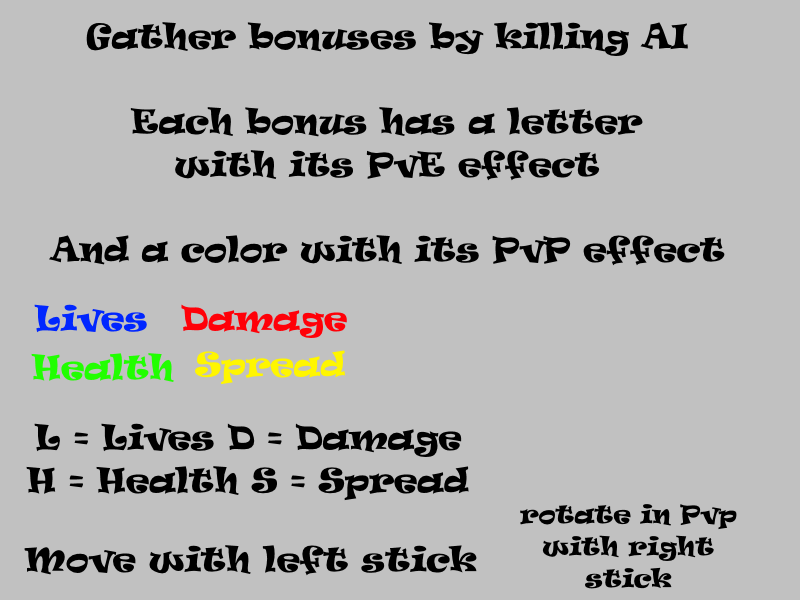
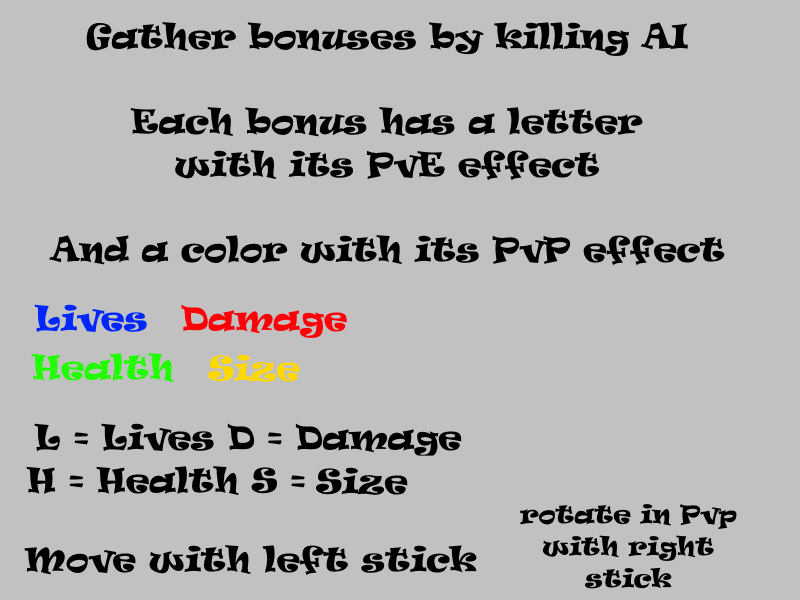
Not even sure what some of these changes were, but I'm pretty sure they were all for the greater good :D

Changed region(s): [[0.2188, 0.57, 0.4375, 0.66], [0.375, 0.78, 0.5938, 0.84]]

diff --git a/RacetoRGS/Assets/Scripts/Drop.cs b/RacetoRGS/Assets/Scripts/Drop.cs
@@ -28,43 +28,44 @@ public class Drop : MonoBehaviour {
 		}
 		if (player1.renderer.bounds.Intersects(renderer.bounds))
 		{
-			if (type == 1) player1.GetComponent<Movement>().damage += .2f;
-			if (type == 2) player1.GetComponent<Movement>().shipHealth += 25;
-			if (type == 3) player1.GetComponent<Movement>().lives += 1;
-			if (type == 4) player1.GetComponent<Movement>().spread += 1;
-			if (type == 5) player1.GetComponent<Movement>().damage += .2f;
-			if (type == 6) player1.GetComponent<Movement>().shipHealth += 25;
-			if (type == 7) player1.GetComponent<Movement>().lives += 1;
-			if (type == 8) player1.GetComponent<Movement>().spread += 1;
-			if (type == 9) player1.GetComponent<Movement>().damage += .2f;
-			if (type == 10) player1.GetComponent<Movement>().shipHealth += 25;
-			if (type == 11) player1.GetComponent<Movement>().lives += 1;
-			if (type == 12) player1.GetComponent<Movement>().spread += 1;
-			if (type == 13) player1.GetComponent<Movement>().damage += .2f;
-			if (type == 14) player1.GetComponent<Movement>().shipHealth += 25;
-			if (type == 15) player1.GetComponent<Movement>().lives += 1;
-			if (type == 16) player1.GetComponent<Movement>().spread += 1;
+			Debug.Log (type);
+			if (type == 0) player1.GetComponent<Movement>().damage += .2f;
+			if (type == 1) player1.GetComponent<Movement>().shipHealth += 25;
+			if (type == 2) player1.GetComponent<Movement>().lives += 1;
+			if (type == 3) player1.GetComponent<Movement>().spread += 1;
+			if (type == 4) player1.GetComponent<Movement>().damage += .2f;
+			if (type == 5) player1.GetComponent<Movement>().shipHealth += 25;
+			if (type == 6) player1.GetComponent<Movement>().lives += 1;
+			if (type == 7) player1.GetComponent<Movement>().spread += 1;
+			if (type == 8) player1.GetComponent<Movement>().damage += .2f;
+			if (type == 9) player1.GetComponent<Movement>().shipHealth += 25;
+			if (type == 10) player1.GetComponent<Movement>().lives += 1;
+			if (type == 11) player1.GetComponent<Movement>().spread += 1;
+			if (type == 12) player1.GetComponent<Movement>().damage += .2f;
+			if (type == 13) player1.GetComponent<Movement>().shipHealth += 25;
+			if (type == 14) player1.GetComponent<Movement>().lives += 1;
+			if (type == 15) player1.GetComponent<Movement>().spread += 1;
 			infinite.GetComponent<Data>().player1Stats.Add (type);
 			Destroy (gameObject);
 		}
 		if (player2.renderer.bounds.Intersects(renderer.bounds))
 		{
-			if (type == 1) player2.GetComponent<Movement>().damage += .2f;
-			if (type == 2) player2.GetComponent<Movement>().shipHealth += 25;
-			if (type == 3) player2.GetComponent<Movement>().lives += 1;
-			if (type == 4) player2.GetComponent<Movement>().spread += 1;
-			if (type == 5) player2.GetComponent<Movement>().damage += .2f;
-			if (type == 6) player2.GetComponent<Movement>().shipHealth += 25;
-			if (type == 7) player2.GetComponent<Movement>().lives += 1;
-			if (type == 8) player2.GetComponent<Movement>().spread += 1;
-			if (type == 9) player2.GetComponent<Movement>().damage += .2f;
-			if (type == 10) player2.GetComponent<Movement>().shipHealth += 25;
-			if (type == 11) player2.GetComponent<Movement>().lives += 1;
-			if (type == 12) player2.GetComponent<Movement>().spread += 1;
-			if (type == 13) player2.GetComponent<Movement>().damage += .2f;
-			if (type == 14) player2.GetComponent<Movement>().shipHealth += 25;
-			if (type == 15) player2.GetComponent<Movement>().lives += 1;
-			if (type == 16) player2.GetComponent<Movement>().spread += 1;
+			if (type == 0) player2.GetComponent<Movement>().damage += .2f;
+			if (type == 1) player2.GetComponent<Movement>().shipHealth += 25;
+			if (type == 2) player2.GetComponent<Movement>().lives += 1;
+			if (type == 3) player2.GetComponent<Movement>().spread += 1;
+			if (type == 4) player2.GetComponent<Movement>().damage += .2f;
+			if (type == 5) player2.GetComponent<Movement>().shipHealth += 25;
+			if (type == 6) player2.GetComponent<Movement>().lives += 1;
+			if (type == 7) player2.GetComponent<Movement>().spread += 1;
+			if (type == 8) player2.GetComponent<Movement>().damage += .2f;
+			if (type == 9) player2.GetComponent<Movement>().shipHealth += 25;
+			if (type == 10) player2.GetComponent<Movement>().lives += 1;
+			if (type == 11) player2.GetComponent<Movement>().spread += 1;
+			if (type == 12) player2.GetComponent<Movement>().damage += .2f;
+			if (type == 13) player2.GetComponent<Movement>().shipHealth += 25;
+			if (type == 14) player2.GetComponent<Movement>().lives += 1;
+			if (type == 15) player2.GetComponent<Movement>().spread += 1;
 			infinite.GetComponent<Data>().player2Stats.Add (type);
 			Destroy (gameObject);
 		}

diff --git a/RacetoRGS/Assets/Scripts/Movement.cs b/RacetoRGS/Assets/Scripts/Movement.cs
@@ -89,16 +89,17 @@ public class Movement : MonoBehaviour {
 		{
 			//Player1 movement
 			if (Input.GetAxis("Vertical1") > 0 && transform.position.y < top.transform.position.y) transform.Translate(Vector3.up*Time.deltaTime*speed);
-			if (Input.GetAxis ("Horizontal1") < 0 && transform.position.x > left.transform.position.x) transform.Translate(Vector3.left*Time.deltaTime*speed);
+			if ((Input.GetAxis ("Horizontal1") < 0 || Input.GetKey(KeyCode.A)) && transform.position.x > left.transform.position.x) transform.Translate(Vector3.left*Time.deltaTime*speed);
 			if (Input.GetAxis ("Vertical1") < 0 && transform.position.y > down.transform.position.y) transform.Translate(Vector3.down*Time.deltaTime*speed);
-			if (Input.GetAxis ("Horizontal1") > 0 && transform.position.x < right.transform.position.x) transform.Translate(Vector3.right*Time.deltaTime*speed);
-			if (!Input.GetKey(KeyCode.W) && !Input.GetKey(KeyCode.A) && !Input.GetKey(KeyCode.S) && !Input.GetKey(KeyCode.D)) transform.Translate (Vector3.up*Time.deltaTime);
+			if ((Input.GetAxis ("Horizontal1") > 0 || Input.GetKey(KeyCode.D)) && transform.position.x < right.transform.position.x) transform.Translate(Vector3.right*Time.deltaTime*speed);
+			if (Input.GetAxis("Vertical1") == 0) transform.Translate (Vector3.up*Time.deltaTime);
 			//Player1 fires a bullet with the left shift key
 			if (Time.time > attackTimer)
 			{
 				Transform thebullet = (Transform)Instantiate(bullet, transform.position, Quaternion.identity);
 				thebullet.GetComponent<Bullet>().damage = damage;
-				attackTimer = Time.time + attackCD;
+				thebullet.localScale += new Vector3(spread/100, spread/100);
+				attackTimer = Time.time + attackCD;	
 			}
 		}
 		else
@@ -114,6 +115,7 @@ public class Movement : MonoBehaviour {
 			{
 				Transform thebullet = (Transform)Instantiate(bullet, transform.position, Quaternion.identity);
 				thebullet.GetComponent<Bullet>().damage = damage;
+				thebullet.localScale += new Vector3(spread/100, spread/100);
 				attackTimer = Time.time + attackCD;
 			}
 		}

diff --git a/RacetoRGS/Assets/Scripts/PvP.cs b/RacetoRGS/Assets/Scripts/PvP.cs
@@ -87,10 +87,11 @@ public class PvP : MonoBehaviour {
 			if (Input.GetAxis("Rotate1") > 0) transform.Rotate (Vector3.forward*rotateSpeed);
 			if (Input.GetAxis("Rotate1") < 0) transform.Rotate (-Vector3.forward*rotateSpeed);
 			//Player1 fires a bullet with the left shift key
-			if (Input.GetButton ("Fire1") && Time.time > attackTimer)
+			if (Time.time > attackTimer)
 			{
 				Transform thebullet = (Transform)Instantiate(bullet, transform.position, Quaternion.identity);
 				thebullet.GetComponent<Bullet>().damage = damage;
+				thebullet.localScale += new Vector3(.5f*spread, .5f*spread);
 				thebullet.rotation = transform.rotation;
 				attackTimer = Time.time + attackCD;
 			}
@@ -117,10 +118,11 @@ public class PvP : MonoBehaviour {
 			if (Input.GetAxis("Rotate2") > 0) transform.Rotate (Vector3.forward*rotateSpeed);
 			if (Input.GetAxis("Rotate2") < 0) transform.Rotate (-Vector3.forward*rotateSpeed);
 			//Player2 fires a bullet with the right shift key
-			if (Input.GetButton("Fire2") && Time.time > attackTimer)
+			if (Time.time > attackTimer)
 			{
 				Transform thebullet = (Transform)Instantiate(bullet, transform.position, Quaternion.identity);
 				thebullet.GetComponent<Bullet>().damage = damage;
+				thebullet.localScale += new Vector3(.5f*spread, .5f*spread);
 				thebullet.rotation = transform.rotation;
 				attackTimer = Time.time + attackCD;
 			}

diff --git a/RacetoRGS/Assets/Scripts/Main.cs b/RacetoRGS/Assets/Scripts/Main.cs
@@ -36,7 +36,7 @@ public class Main : MonoBehaviour {
 	void OnGUI()
 	{
 		GUI.Box (new Rect(0, Screen.height * 7 / 8, Screen.width, Screen.height / 8), "");
-		GUI.Label(new Rect(Screen.width * .1f / 8, Screen.height * 7.25f / 8, Screen.width / 4, Screen.height / 8), "Attack: "+player1.GetComponent<Movement>().attackRate+"\nSpeed");
+		GUI.Label(new Rect(Screen.width * .1f / 8, Screen.height * 7.25f / 8, Screen.width / 4, Screen.height / 8), "Attack: "+player1.GetComponent<Movement>().damage);
 		GUI.Label(new Rect(Screen.width * 1.1f / 8, Screen.height * 7.25f / 8, Screen.width / 4, Screen.height / 8), "Health: "+player1.GetComponent<Movement>().shipHealth);
 		GUI.Label(new Rect(Screen.width * 2.1f / 8, Screen.height * 7.25f / 8, Screen.width / 4, Screen.height / 8), "Lives: "+player1.GetComponent<Movement>().lives);
 		GUI.Label(new Rect(Screen.width * 3.1f / 8, Screen.height * 7.25f / 8, Screen.width / 4, Screen.height / 8), "Score: "+player1.GetComponent<Movement>().score);
